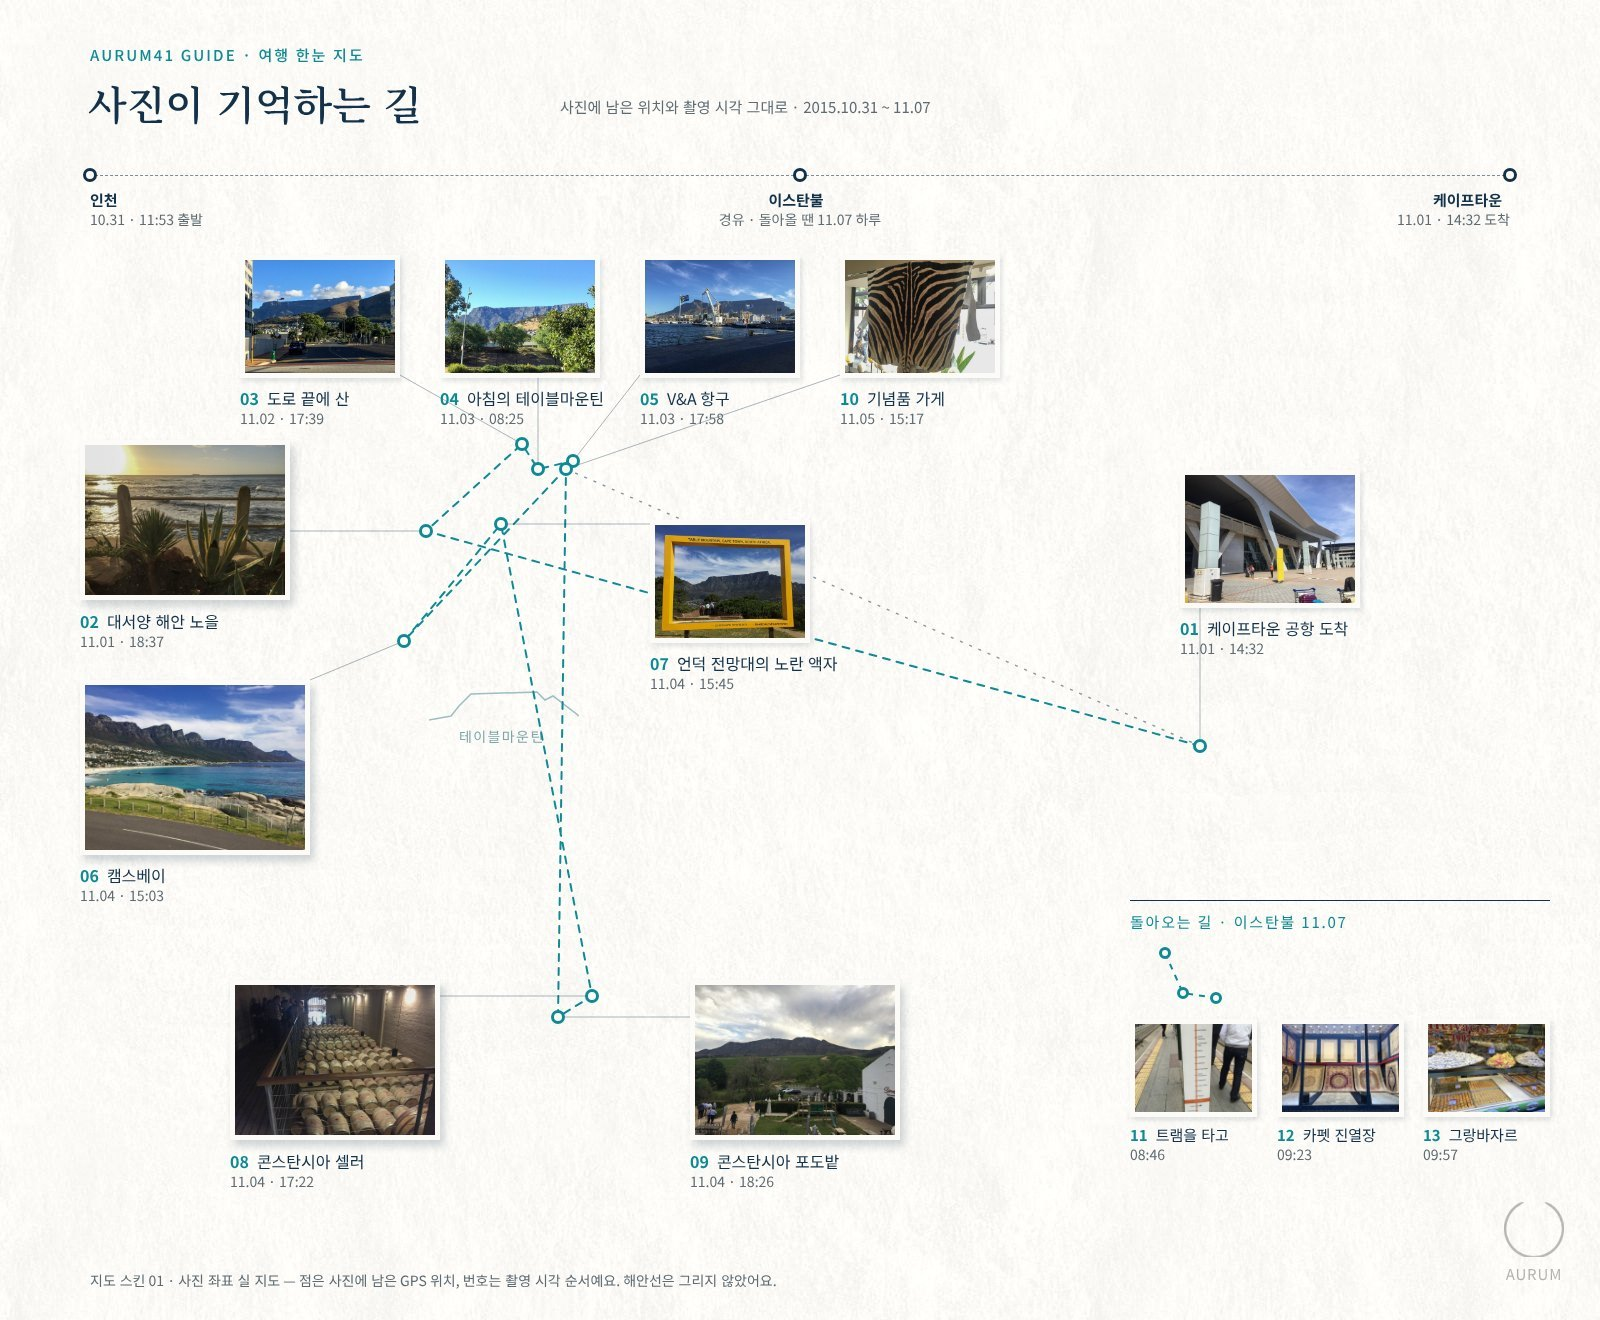
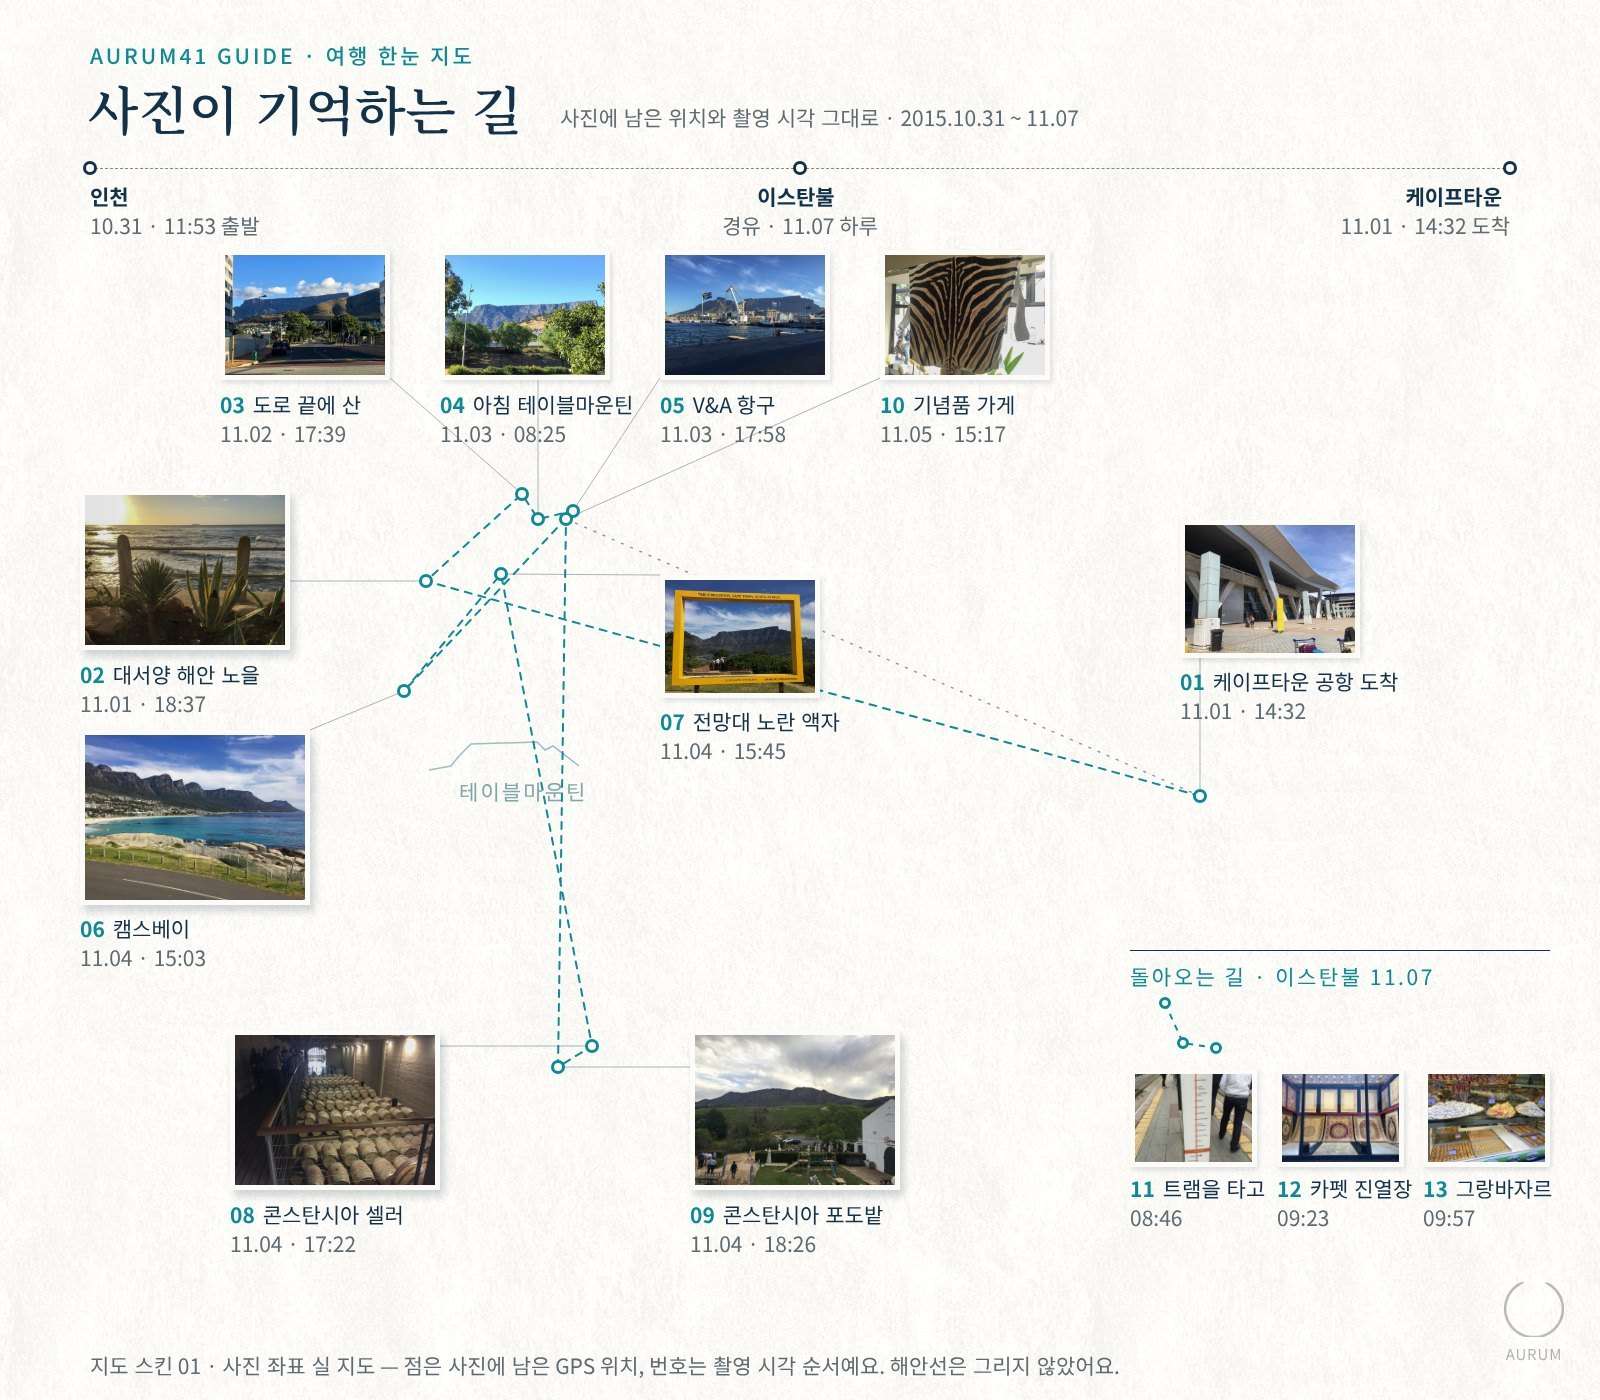
패치 x 수정: 포스터 글자 14px 이상(PC 21px·모바일 42px 원본), 모바일 세로판 번호 지도+사진 목록
Claude-Session: https://claude.ai/code/session_01F9LRgiTeBmkJ7htWjS4QcD

diff --git a/blog/capetown/patch/story_1125x_ko.html b/blog/capetown/patch/story_1125x_ko.html
@@ -231,7 +231,7 @@ html:not(#z1):not(#z2) .contents_style .fact{background:#EEF7F8!important;border
 <p class="cap cp-ccap" data-ke-size="size16">캠스베이 전경</p>
 <p data-ke-size="size16">와인 한&nbsp;모금, 체리 초콜릿 한&nbsp;조각, 그리고 이스탄불 시장에서 낸 스무&nbsp;배의 수업료.</p>
 <p data-ke-size="size16">이 세&nbsp;가지를 얻으려고 비행기를 이틀이나 탔네요.</p>
-<figure class="mg-spread mg-wide mg-poster"><img class="mg-pc" src="https://41aurum.github.io/blog/capetown/mag2/poster_pc_ko.jpg?v=1" alt="사진의 GPS 위치와 촬영 시각으로 그린 케이프타운·이스탄불 여행 동선 지도, 스팟마다 그 자리에서 찍은 사진" width="1600" height="1320" /><img class="mg-mo" src="https://41aurum.github.io/blog/capetown/mag2/poster_mo_ko.jpg?v=1" alt="사진의 GPS 위치와 촬영 시각으로 그린 여행 동선 지도(세로판)" width="1080" height="2054" /></figure><div id="agtrail" class="tr"><a class="tr-i" href="#s1" data-s="s1" title="비행"><span class="tr-d">&nbsp;</span><span class="tr-p" style="background-image:url(https://41aurum.github.io/blog/capetown/trail/t1.jpg?v=1)">&nbsp;</span><span class="tr-n">비행</span></a><a class="tr-i" href="#s2" data-s="s2" title="대서양"><span class="tr-d">&nbsp;</span><span class="tr-p" style="background-image:url(https://41aurum.github.io/blog/capetown/trail/t2.jpg?v=1)">&nbsp;</span><span class="tr-n">대서양</span></a><a class="tr-i" href="#s3" data-s="s3" title="와이너리"><span class="tr-d">&nbsp;</span><span class="tr-p" style="background-image:url(https://41aurum.github.io/blog/capetown/trail/t3.jpg?v=1)">&nbsp;</span><span class="tr-n">와이너리</span></a><a class="tr-i" href="#s4" data-s="s4" title="테이블마운틴"><span class="tr-d">&nbsp;</span><span class="tr-p" style="background-image:url(https://41aurum.github.io/blog/capetown/trail/t4.jpg?v=1)">&nbsp;</span><span class="tr-n">테이블마운틴</span></a><a class="tr-i" href="#s5" data-s="s5" title="기념품"><span class="tr-d">&nbsp;</span><span class="tr-p" style="background-image:url(https://41aurum.github.io/blog/capetown/trail/t5.jpg?v=1)">&nbsp;</span><span class="tr-n">기념품</span></a><a class="tr-i" href="#s6" data-s="s6" title="이스탄불"><span class="tr-d">&nbsp;</span><span class="tr-p" style="background-image:url(https://41aurum.github.io/blog/capetown/trail/t6.jpg?v=1)">&nbsp;</span><span class="tr-n">이스탄불</span></a><a class="tr-i" href="#s7" data-s="s7" title="그랑바자르"><span class="tr-d">&nbsp;</span><span class="tr-p" style="background-image:url(https://41aurum.github.io/blog/capetown/trail/t7.jpg?v=1)">&nbsp;</span><span class="tr-n">그랑바자르</span></a><a class="tr-i" href="#s8" data-s="s8" title="귀국"><span class="tr-d">&nbsp;</span><span class="tr-p" style="background-image:url(https://41aurum.github.io/blog/capetown/trail/t8.jpg?v=1)">&nbsp;</span><span class="tr-n">귀국</span></a><a class="tr-i" href="#s9" data-s="s9" title="에필로그"><span class="tr-d">&nbsp;</span><span class="tr-p" style="background-image:url(https://41aurum.github.io/blog/capetown/trail/t9.jpg?v=1)">&nbsp;</span><span class="tr-n">에필로그</span></a></div><div class="au-hello au-b"><p class="au-name"><span>양승진</span></p><p data-ke-size="size16">생각을 연출하는 작가 양승진이에요. 이번엔 2015년 가을, 아프리카 대륙 맨 아래 끝 도시 케이프타운에서 오래 남은 장면을 하나씩 꺼내 볼게요. 바다는 수영장처럼 파랗고, 산은 칼로 자른 듯 평평한 곳이에요. 가는 길에 고생은 제가 다 해 두었으니, 편하게 구경만 하세요. 좋은 건 같이 봐요.</p></div><p class="mg-pull" data-ke-size="size16">이미 오래전 여행인데, 사진을 다시 펼치니 오늘처럼 생생하네요.</p>
+<figure class="mg-spread mg-wide mg-poster"><img class="mg-pc" src="https://41aurum.github.io/blog/capetown/mag2/poster_pc_ko.jpg?v=2" alt="사진의 GPS 위치와 촬영 시각으로 그린 케이프타운·이스탄불 여행 동선 지도, 스팟마다 그 자리에서 찍은 사진" width="1600" height="1400" /><img class="mg-mo" src="https://41aurum.github.io/blog/capetown/mag2/poster_mo_ko.jpg?v=2" alt="사진의 GPS 위치와 촬영 시각으로 그린 여행 동선 지도(세로판)" width="1080" height="5200" /></figure><div id="agtrail" class="tr"><a class="tr-i" href="#s1" data-s="s1" title="비행"><span class="tr-d">&nbsp;</span><span class="tr-p" style="background-image:url(https://41aurum.github.io/blog/capetown/trail/t1.jpg?v=1)">&nbsp;</span><span class="tr-n">비행</span></a><a class="tr-i" href="#s2" data-s="s2" title="대서양"><span class="tr-d">&nbsp;</span><span class="tr-p" style="background-image:url(https://41aurum.github.io/blog/capetown/trail/t2.jpg?v=1)">&nbsp;</span><span class="tr-n">대서양</span></a><a class="tr-i" href="#s3" data-s="s3" title="와이너리"><span class="tr-d">&nbsp;</span><span class="tr-p" style="background-image:url(https://41aurum.github.io/blog/capetown/trail/t3.jpg?v=1)">&nbsp;</span><span class="tr-n">와이너리</span></a><a class="tr-i" href="#s4" data-s="s4" title="테이블마운틴"><span class="tr-d">&nbsp;</span><span class="tr-p" style="background-image:url(https://41aurum.github.io/blog/capetown/trail/t4.jpg?v=1)">&nbsp;</span><span class="tr-n">테이블마운틴</span></a><a class="tr-i" href="#s5" data-s="s5" title="기념품"><span class="tr-d">&nbsp;</span><span class="tr-p" style="background-image:url(https://41aurum.github.io/blog/capetown/trail/t5.jpg?v=1)">&nbsp;</span><span class="tr-n">기념품</span></a><a class="tr-i" href="#s6" data-s="s6" title="이스탄불"><span class="tr-d">&nbsp;</span><span class="tr-p" style="background-image:url(https://41aurum.github.io/blog/capetown/trail/t6.jpg?v=1)">&nbsp;</span><span class="tr-n">이스탄불</span></a><a class="tr-i" href="#s7" data-s="s7" title="그랑바자르"><span class="tr-d">&nbsp;</span><span class="tr-p" style="background-image:url(https://41aurum.github.io/blog/capetown/trail/t7.jpg?v=1)">&nbsp;</span><span class="tr-n">그랑바자르</span></a><a class="tr-i" href="#s8" data-s="s8" title="귀국"><span class="tr-d">&nbsp;</span><span class="tr-p" style="background-image:url(https://41aurum.github.io/blog/capetown/trail/t8.jpg?v=1)">&nbsp;</span><span class="tr-n">귀국</span></a><a class="tr-i" href="#s9" data-s="s9" title="에필로그"><span class="tr-d">&nbsp;</span><span class="tr-p" style="background-image:url(https://41aurum.github.io/blog/capetown/trail/t9.jpg?v=1)">&nbsp;</span><span class="tr-n">에필로그</span></a></div><div class="au-hello au-b"><p class="au-name"><span>양승진</span></p><p data-ke-size="size16">생각을 연출하는 작가 양승진이에요. 이번엔 2015년 가을, 아프리카 대륙 맨 아래 끝 도시 케이프타운에서 오래 남은 장면을 하나씩 꺼내 볼게요. 바다는 수영장처럼 파랗고, 산은 칼로 자른 듯 평평한 곳이에요. 가는 길에 고생은 제가 다 해 두었으니, 편하게 구경만 하세요. 좋은 건 같이 봐요.</p></div><p class="mg-pull" data-ke-size="size16">이미 오래전 여행인데, 사진을 다시 펼치니 오늘처럼 생생하네요.</p>
 <nav class="toc"><a href="#s1">① 이틀의 비행</a><a href="#s2">② 대서양의 빛</a><a href="#s3">③ 와이너리</a><a href="#s4">④ 테이블마운틴</a><a href="#s5">⑤ 기념품과 세관</a><a href="#s6">⑥ 이스탄불</a><a href="#s7">⑦ 그랑바자르</a><a href="#s8">⑧ 입맛의 귀국</a><a href="#s9">⑨ 에필로그</a></nav></section>
 <div class="sum"><b>3줄 요약</b>
 <ul style="list-style-type: disc;" data-ke-list-type="disc"><li>비행만 이틀. 도착하니 열두&nbsp;봉우리 아래 청록 바다, 그리고 와인과 체리 초콜릿.</li><li>테이블마운틴과 항구, 기념품 가게와 세관 — 선물에도 세금이 붙는다는 걸 배운 날.</li><li>돌아오는 길 이스탄불, 그랑바자르에서 스무&nbsp;배를 내고 배운 흥정. 마지막엔 공항 길의 판자촌.</li></ul>
